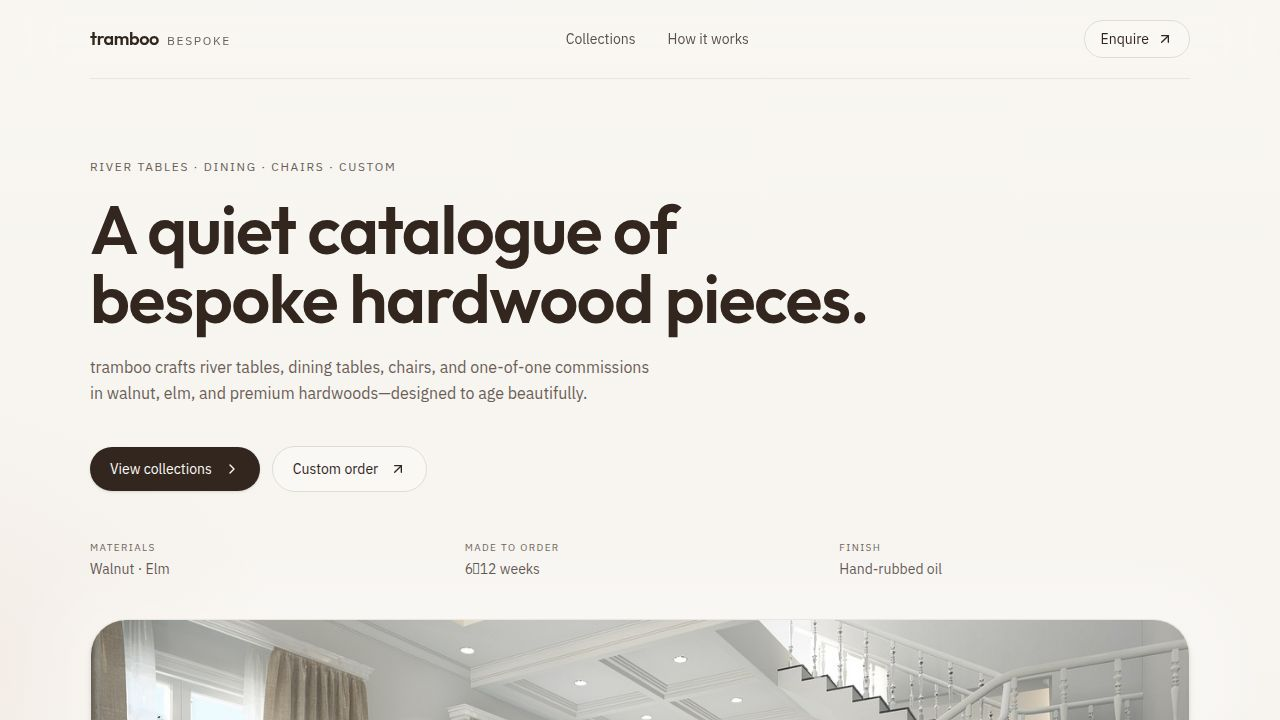
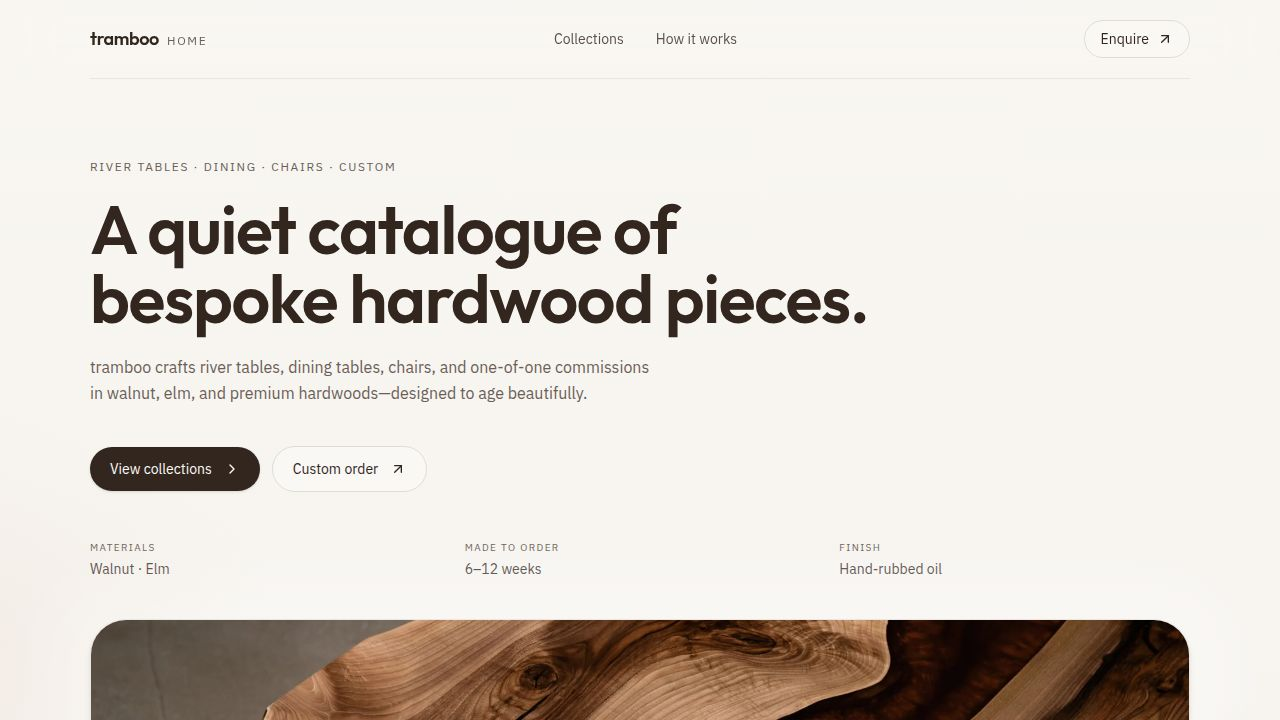
Update hero image to reflect studio series branding
Replace the existing hero image with a new 'studio-hero.webp' asset, and update the opengraph image.

Replit-Commit-Author: Agent
Replit-Commit-Session-Id: 97b1392e-35c4-4ab6-9b5e-57cd5e45b4fc
Replit-Commit-Checkpoint-Type: full_checkpoint
Replit-Commit-Event-Id: c1d13781-39e0-4b9f-bd6c-83e6f811c30a
Replit-Commit-Screenshot-Url: https://storage.googleapis.com/screenshot-production-us-central1/adb0b728-6c5c-45cc-b27b-6ec134e58cb9/97b1392e-35c4-4ab6-9b5e-57cd5e45b4fc/ci3iDSS
Replit-Helium-Checkpoint-Created: true

diff --git a/client/src/pages/home.tsx b/client/src/pages/home.tsx
@@ -2,7 +2,7 @@ import { Link } from "wouter";
 import { motion, useScroll, useTransform } from "framer-motion";
 import { ArrowUpRight, ChevronRight } from "lucide-react";
 
-import heroImg from "@/assets/images/river-table-v8.webp";
+import heroImg from "@/assets/images/studio-hero.webp";
 import woodGrainImg from "@/assets/images/wood-detail-v1.webp";
 import riverImg from "@/assets/images/river-table-v4.jpg";
 import diningImg from "@/assets/images/dining-table-v4.webp";
